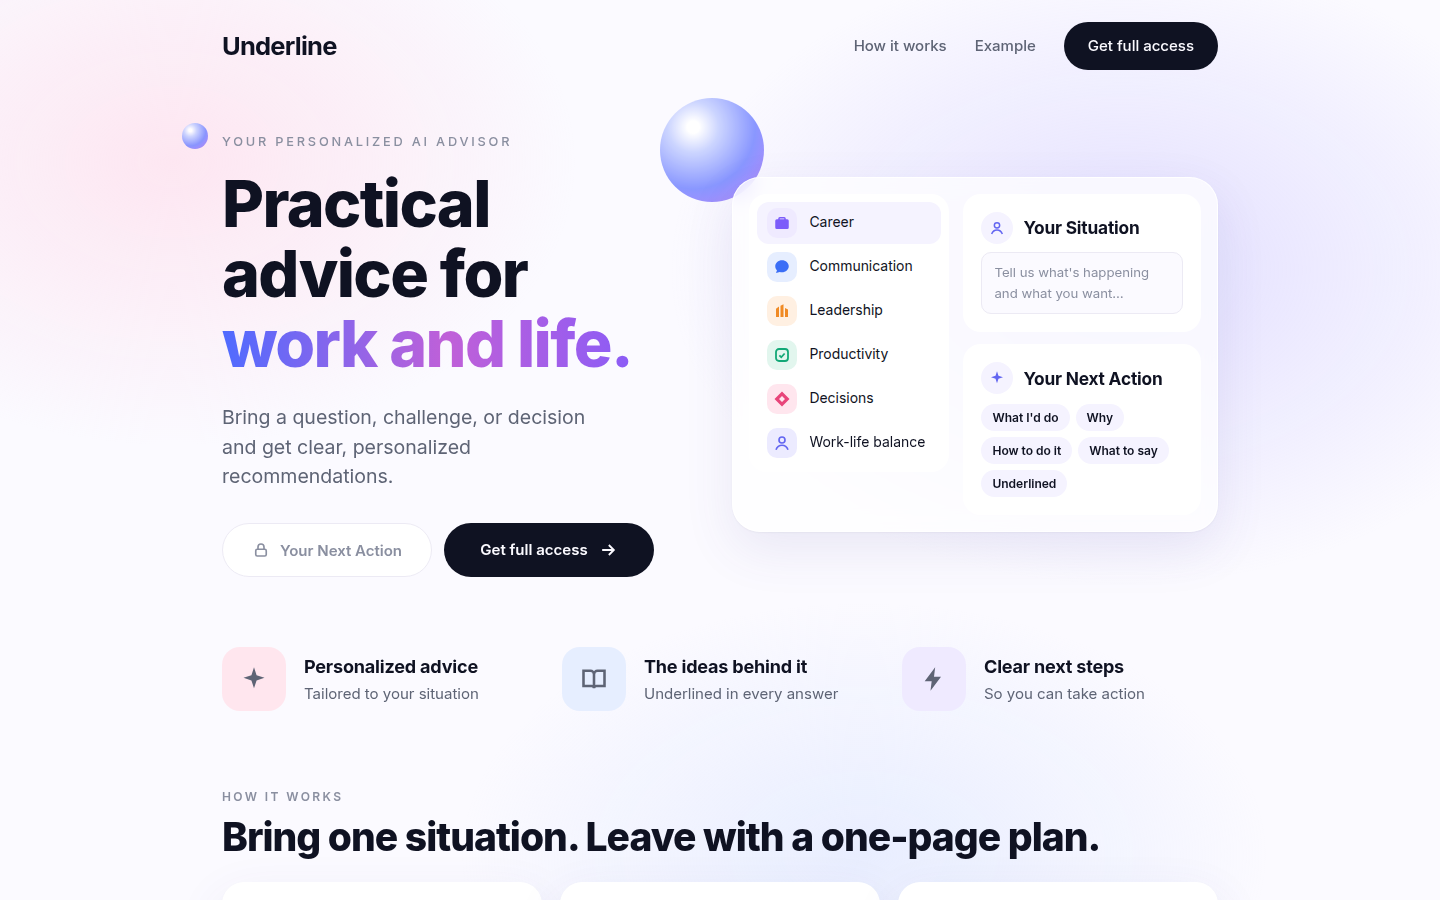
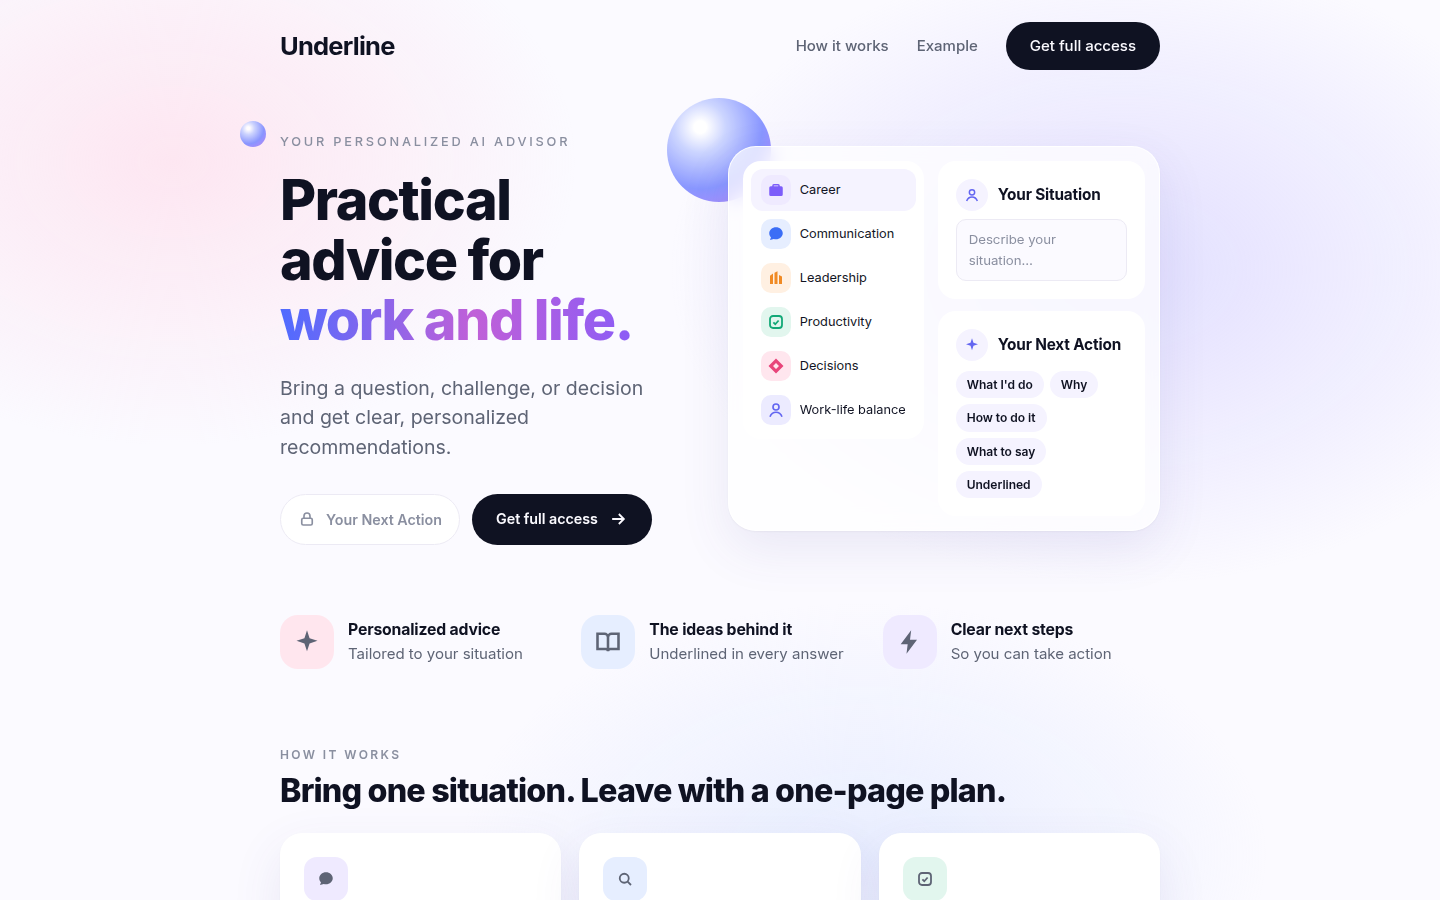
Narrower centered layout, simpler hero preview

diff --git a/index.html b/index.html
@@ -30,7 +30,7 @@ body::before{content:"";position:fixed;inset:0;pointer-events:none;z-index:-1;ba
 a{color:inherit}
 :focus-visible{outline:2px solid var(--purple);outline-offset:3px}
 h1,h2,h3{margin:0;letter-spacing:-.025em;line-height:1.08}
-.wrap{max-width:1060px;margin:0 auto;padding:0 32px}
+.wrap{max-width:920px;margin:0 auto;padding:0 40px}
 @media (max-width:600px){.wrap{padding:0 16px}}
 .orb{position:absolute;border-radius:50%;pointer-events:none;background:radial-gradient(circle at 32% 28%,#fff 0 6%,#C9D2FF 24%,#7E8CFF 60%,#B57BE8 100%);opacity:.9;filter:saturate(1.05)}
 
@@ -49,9 +49,9 @@ nav.top{display:flex;align-items:center;justify-content:space-between;gap:16px;p
 @media (max-width:760px){.links a:not(.btn){display:none}}
 
 /* hero */
-.hero{position:relative;display:grid;grid-template-columns:minmax(0,1fr) minmax(0,1.05fr);gap:48px;align-items:center;padding:40px 0 30px}
+.hero{position:relative;display:grid;grid-template-columns:minmax(0,1fr) minmax(0,1.05fr);gap:36px;align-items:center;padding:40px 0 30px}
 .eyebrow{font-size:.85rem;letter-spacing:.22em;text-transform:uppercase;color:var(--faint);font-weight:500;margin:0 0 18px}
-.hero h1{font-size:clamp(2.4rem,5.2vw,4.3rem);font-weight:800}
+.hero h1{font-size:clamp(2.3rem,4.6vw,3.7rem);font-weight:800}
 .hero h1 .grad{white-space:nowrap}
 .grad{background:var(--grad);-webkit-background-clip:text;background-clip:text;color:transparent}
 .lead{font-size:clamp(1.05rem,1.6vw,1.3rem);color:var(--soft);margin:24px 0 32px;max-width:30ch;line-height:1.5}
@@ -59,7 +59,7 @@ nav.top{display:flex;align-items:center;justify-content:space-between;gap:16px;p
 @media (max-width:520px){.btn.big{width:100%}}
 
 /* app preview */
-.preview{position:relative;background:rgba(255,255,255,.72);border:1px solid rgba(255,255,255,.9);border-radius:28px;box-shadow:var(--shadow);padding:16px;display:grid;grid-template-columns:200px minmax(0,1fr);gap:14px;backdrop-filter:blur(10px)}
+.preview{position:relative;background:rgba(255,255,255,.72);border:1px solid rgba(255,255,255,.9);border-radius:28px;box-shadow:var(--shadow);padding:14px;display:grid;grid-template-columns:170px minmax(0,1fr);gap:14px;backdrop-filter:blur(10px)}
 @media (prefers-color-scheme: dark){:root:not([data-theme="light"]) .preview{background:rgba(22,25,39,.8);border-color:var(--line)}}
 .cats{list-style:none;margin:0;padding:8px;display:flex;flex-direction:column;gap:6px;background:var(--card);border-radius:18px}
 .cats li{display:flex;align-items:center;gap:12px;padding:9px 10px;border-radius:12px;font-size:.93rem}
@@ -159,6 +159,16 @@ footer a svg{width:15px;height:15px}
 .cats li{padding:6px 10px!important}
 .cats .ic{width:30px;height:30px}
 .preview{align-items:start}
+
+.btn.big{width:180px!important;padding:14px 0!important;font-size:.95rem!important}
+.preview{grid-template-columns:auto minmax(0,1fr)!important}
+.cats li{white-space:nowrap;font-size:.85rem;gap:9px!important}
+.anshead b{white-space:nowrap;font-size:1.02rem!important}
+.feat b{font-size:1.05rem!important}
+.feat{gap:14px!important}
+.feat .ic{width:54px!important;height:54px!important}
+.block h2{font-size:clamp(1.6rem,3vw,2.15rem)!important}
+.wrap{max-width:960px!important}
 </style>
 
 </head>
@@ -196,7 +206,7 @@ footer a svg{width:15px;height:15px}
         <li><span class="ic c6"><svg viewBox="0 0 24 24" fill="none" stroke="currentColor" stroke-width="2.2"><circle cx="12" cy="8" r="4"/><path d="M4 21c1.5-4 4.5-6 8-6s6.5 2 8 6"/></svg></span>Work-life balance</li>
       </ul>
       <div class="chat">
-        <div class="ans sit"><div class="anshead"><span class="spark"><svg viewBox="0 0 24 24" fill="none" stroke="currentColor" stroke-width="2.2"><circle cx="12" cy="8" r="4"/><path d="M4 21c1.5-4 4.5-6 8-6s6.5 2 8 6"/></svg></span><b>Your Situation</b></div><div class="ins"><span>Tell us what's happening and what you want…</span></div></div>
+        <div class="ans sit"><div class="anshead"><span class="spark"><svg viewBox="0 0 24 24" fill="none" stroke="currentColor" stroke-width="2.2"><circle cx="12" cy="8" r="4"/><path d="M4 21c1.5-4 4.5-6 8-6s6.5 2 8 6"/></svg></span><b>Your Situation</b></div><div class="ins"><span>Describe your situation…</span></div></div>
         <div class="ans">
           <div class="anshead"><span class="spark"><svg viewBox="0 0 24 24" width="16" height="16" fill="currentColor"><path d="M12 2l2.2 6.8L21 11l-6.8 2.2L12 20l-2.2-6.8L3 11l6.8-2.2L12 2Z"/></svg></span><b>Your Next Action</b></div>
           <ul class="outs"><li>What I'd do</li><li>Why</li><li>How to do it</li><li>What to say</li><li>Underlined</li></ul>
